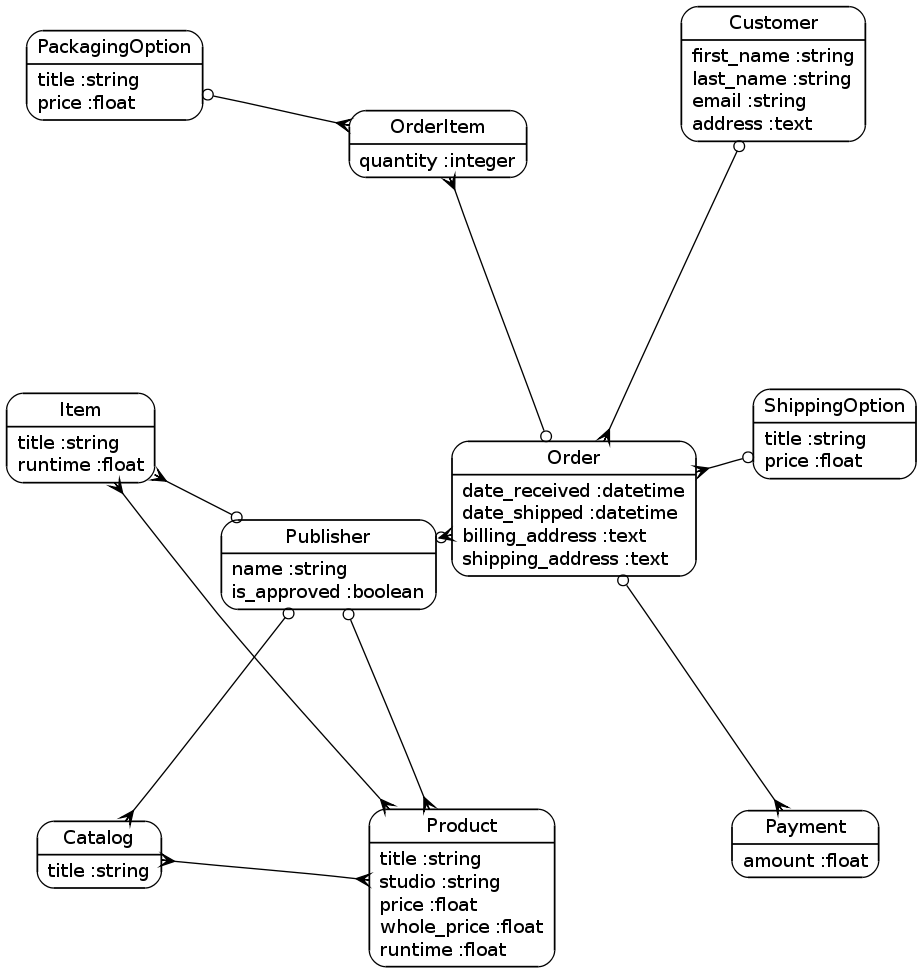
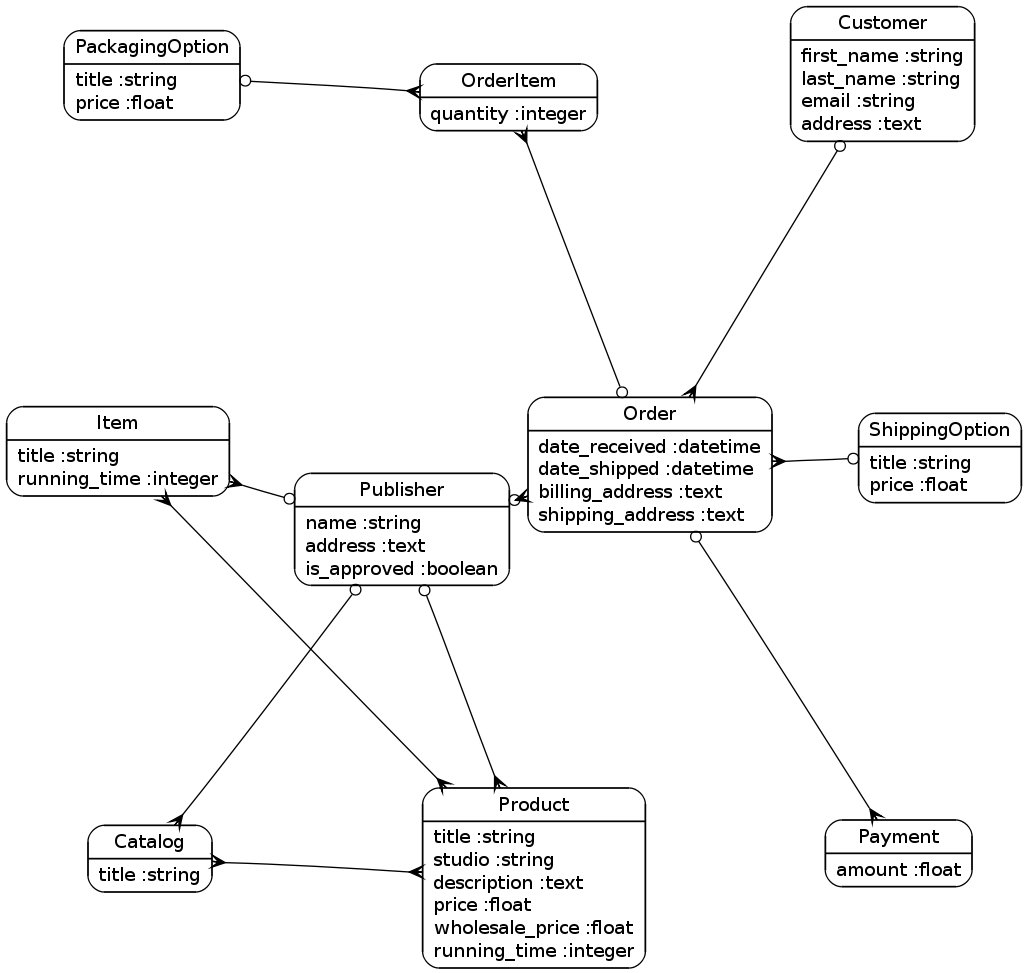
more model attributes completion; see models.png

diff --git a/db/migrate/20100928232918_create_products.rb b/db/migrate/20100928232918_create_products.rb
@@ -3,9 +3,10 @@ class CreateProducts < ActiveRecord::Migration
     create_table :products do |t|
       t.string :title
       t.string :studio
+      t.text :description
       t.float :price
-      t.float :whole_price
-      t.float :runtime
+      t.float :wholesale_price
+      t.integer :running_time
       t.references :publisher
       t.timestamps
     end

diff --git a/db/migrate/20100928233844_create_items.rb b/db/migrate/20100928233844_create_items.rb
@@ -2,7 +2,7 @@ class CreateItems < ActiveRecord::Migration
   def self.up
     create_table :items do |t|
       t.string :title
-      t.float :runtime
+      t.integer :running_time
       t.references :publisher
       t.timestamps
     end

diff --git a/db/migrate/20100928232530_create_publishers.rb b/db/migrate/20100928232530_create_publishers.rb
@@ -2,6 +2,7 @@ class CreatePublishers < ActiveRecord::Migration
   def self.up
     create_table :publishers do |t|
       t.string :name
+      t.text :address
       t.boolean :is_approved
       t.timestamps
     end
